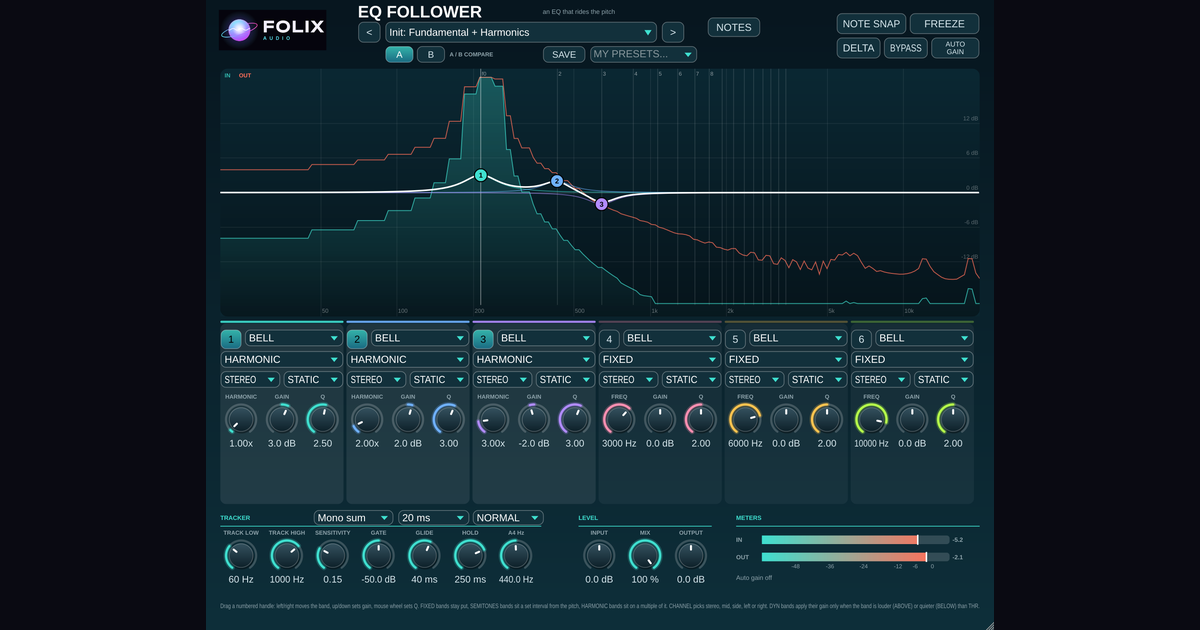
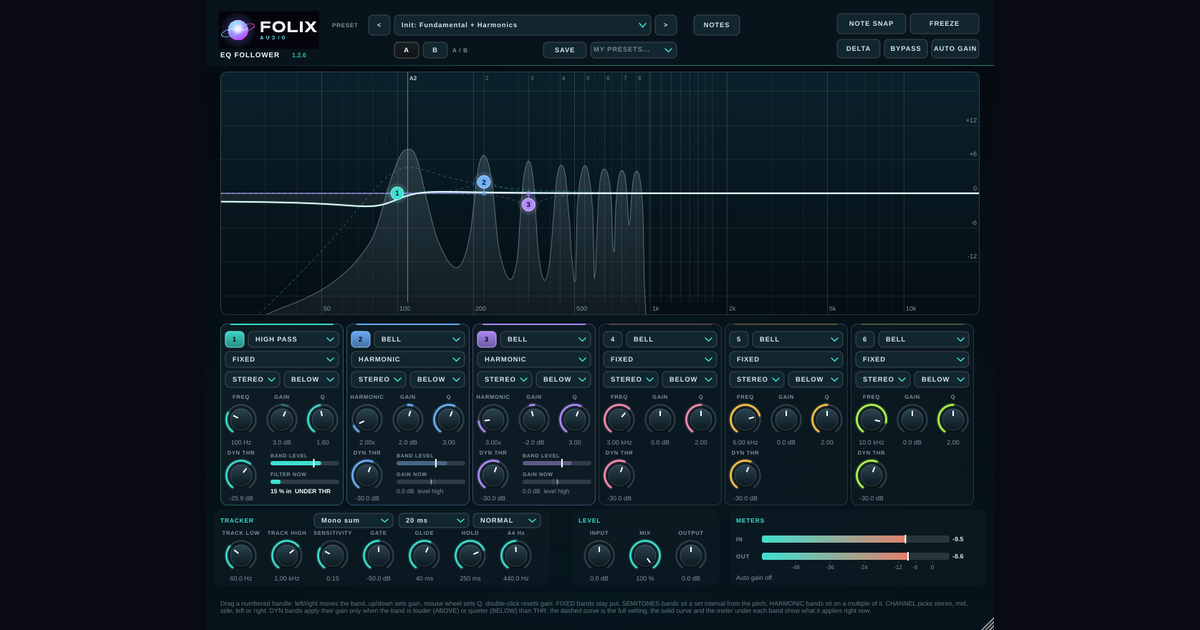
Update EQ Follower screenshots, social links, and Falling Waves teaser
Replace the outdated 1.2.0 EQ Follower UI shots with current 1.2.6
screenshots. Add TikTok, Instagram, X, and YouTube footer and contact
links, and a Coming soon teaser for Falling Waves (no product page,
price, or Buy button). Backwash stays hidden.

diff --git a/contact.html b/contact.html
@@ -56,7 +56,10 @@
     <aside class="info glass reveal">
       <div><h3>Email</h3><p><a href="mailto:folixaudio@gmail.com">folixaudio@gmail.com</a></p></div>
       <div><h3>Support</h3><p>Installation help and answers to common questions are in the <a href="faq.html">FAQ</a> and <a href="install.html">installation guide</a>.</p></div>
-      <div><h3>Follow</h3><p style="color:var(--ink-mute)">Socials are coming soon.</p></div>
+      <div><h3>Follow</h3><div class="socials"><a href="https://www.tiktok.com/@folixaudio" aria-label="TikTok" target="_blank" rel="noopener"><svg viewBox="0 0 24 24"><path d="M19.59 6.69a4.83 4.83 0 01-3.77-4.25V2h-3.45v13.67a2.89 2.89 0 01-5.2 1.74 2.89 2.89 0 012.31-4.51c.28 0 .56.04.81.13V9.01a6.27 6.27 0 00-.81-.05A6.34 6.34 0 003.16 15.3a6.34 6.34 0 0010.86 4.48 6.34 6.34 0 001.87-4.48V8.77a8.16 8.16 0 004.85 1.56V6.88a4.83 4.83 0 01-1.15-.19z"/></svg></a>
+        <a href="https://www.instagram.com/folixaudio/" aria-label="Instagram" target="_blank" rel="noopener"><svg viewBox="0 0 24 24"><path d="M12 7a5 5 0 100 10 5 5 0 000-10zm0 8.2a3.2 3.2 0 110-6.4 3.2 3.2 0 010 6.4zM17.3 5.5a1.2 1.2 0 100 2.4 1.2 1.2 0 000-2.4zM12 2c-2.7 0-3 0-4.1.1C4.3 2.3 2.3 4.3 2.1 7.9 2 9 2 9.3 2 12s0 3 .1 4.1c.2 3.6 2.2 5.6 5.8 5.8 1.1.1 1.4.1 4.1.1s3 0 4.1-.1c3.6-.2 5.6-2.2 5.8-5.8.1-1.1.1-1.4.1-4.1s0-3-.1-4.1c-.2-3.6-2.2-5.6-5.8-5.8C15 2 14.7 2 12 2z"/></svg></a>
+        <a href="https://x.com/Folixaudio" aria-label="X" target="_blank" rel="noopener"><svg viewBox="0 0 24 24"><path d="M17.8 3h3.1l-6.8 7.7 8 10.3h-6.3l-4.9-6.4L5.3 21H2.2l7.2-8.3L1.8 3h6.4l4.4 5.9L17.8 3zm-1.1 16.2h1.7L7.4 4.7H5.6l11.1 14.5z"/></svg></a>
+        <a href="https://www.youtube.com/@folixaudio" aria-label="YouTube" target="_blank" rel="noopener"><svg viewBox="0 0 24 24"><path d="M23 7.2a3 3 0 00-2.1-2.1C19 4.6 12 4.6 12 4.6s-7 0-8.9.5A3 3 0 001 7.2 31 31 0 00.5 12 31 31 0 001 16.8a3 3 0 002.1 2.1c1.9.5 8.9.5 8.9.5s7 0 8.9-.5a3 3 0 002.1-2.1 31 31 0 00.5-4.8 31 31 0 00-.5-4.8zM9.7 15.1V8.9l5.8 3.1-5.8 3.1z"/></svg></a></div></div>
     </aside>
   </div>
 </section>
@@ -85,7 +88,10 @@
         <a class="brand" href="index.html" aria-label="Folix Audio home"><img src="assets/img/mark.svg" alt="Folix Audio" width="40" height="40"><span class="brand-word"><b data-brand="wordmark-top">FOLIX</b><span data-brand="wordmark-sub">AUDIO</span></span></a>
         <p>Instruments and effects for producers and sound designers. VST3 &amp; AU plugins.</p>
         <p>Support: <a href="mailto:folixaudio@gmail.com">folixaudio@gmail.com</a></p>
-        
+        <div class="socials"><a href="https://www.tiktok.com/@folixaudio" aria-label="TikTok" target="_blank" rel="noopener"><svg viewBox="0 0 24 24"><path d="M19.59 6.69a4.83 4.83 0 01-3.77-4.25V2h-3.45v13.67a2.89 2.89 0 01-5.2 1.74 2.89 2.89 0 012.31-4.51c.28 0 .56.04.81.13V9.01a6.27 6.27 0 00-.81-.05A6.34 6.34 0 003.16 15.3a6.34 6.34 0 0010.86 4.48 6.34 6.34 0 001.87-4.48V8.77a8.16 8.16 0 004.85 1.56V6.88a4.83 4.83 0 01-1.15-.19z"/></svg></a>
+        <a href="https://www.instagram.com/folixaudio/" aria-label="Instagram" target="_blank" rel="noopener"><svg viewBox="0 0 24 24"><path d="M12 7a5 5 0 100 10 5 5 0 000-10zm0 8.2a3.2 3.2 0 110-6.4 3.2 3.2 0 010 6.4zM17.3 5.5a1.2 1.2 0 100 2.4 1.2 1.2 0 000-2.4zM12 2c-2.7 0-3 0-4.1.1C4.3 2.3 2.3 4.3 2.1 7.9 2 9 2 9.3 2 12s0 3 .1 4.1c.2 3.6 2.2 5.6 5.8 5.8 1.1.1 1.4.1 4.1.1s3 0 4.1-.1c3.6-.2 5.6-2.2 5.8-5.8.1-1.1.1-1.4.1-4.1s0-3-.1-4.1c-.2-3.6-2.2-5.6-5.8-5.8C15 2 14.7 2 12 2z"/></svg></a>
+        <a href="https://x.com/Folixaudio" aria-label="X" target="_blank" rel="noopener"><svg viewBox="0 0 24 24"><path d="M17.8 3h3.1l-6.8 7.7 8 10.3h-6.3l-4.9-6.4L5.3 21H2.2l7.2-8.3L1.8 3h6.4l4.4 5.9L17.8 3zm-1.1 16.2h1.7L7.4 4.7H5.6l11.1 14.5z"/></svg></a>
+        <a href="https://www.youtube.com/@folixaudio" aria-label="YouTube" target="_blank" rel="noopener"><svg viewBox="0 0 24 24"><path d="M23 7.2a3 3 0 00-2.1-2.1C19 4.6 12 4.6 12 4.6s-7 0-8.9.5A3 3 0 001 7.2 31 31 0 00.5 12 31 31 0 001 16.8a3 3 0 002.1 2.1c1.9.5 8.9.5 8.9.5s7 0 8.9-.5a3 3 0 002.1-2.1 31 31 0 00.5-4.8 31 31 0 00-.5-4.8zM9.7 15.1V8.9l5.8 3.1-5.8 3.1z"/></svg></a></div>
       </div>
       <div><h4>Plugins</h4><ul><li><a href="plugins.html">All plugins</a></li><li><a href="plugin-euphora.html">Folix Euphora</a></li><li><a href="plugin-drop.html">Folix Drop 2</a></li><li><a href="plugin-eq-follower.html">Folix EQ Follower</a></li><li><a href="plugin-delay.html">Folix Delay</a></li><li><a href="plugin-shape-eq.html">Folix Shape EQ</a></li></ul></div>
       <div><h4>Company</h4><ul><li><a href="about.html">About</a></li><li><a href="contact.html">Contact</a></li><li><a href="contact.html#newsletter">Newsletter</a></li></ul></div>

diff --git a/plugins.html b/plugins.html
@@ -45,7 +45,7 @@
         <button class="filter" data-filter="instrument" aria-pressed="false" id="instruments">Instruments</button>
         <button class="filter" data-filter="effect" aria-pressed="false" id="effects">Effects</button>
       </div>
-      <p style="color:var(--ink-mute);font-size:.92rem">5 plugins · all available now</p>
+      <p style="color:var(--ink-mute);font-size:.92rem">5 available now · Falling Waves coming soon</p>
     </div>
     <div class="grid">
       <a class="card glass reveal" href="plugin-euphora.html" data-cat="effect">
@@ -88,6 +88,14 @@
           <p>Two EQ curves, A and B, with a morph you drive by hand, by LFO or by input level.</p>
           <div class="card-foot"><span>$29.99</span><span class="arrow">Details</span></div>
         </div>
+      </a><a class="card glass reveal teaser" href="contact.html#newsletter" data-cat="effect">
+        <div class="card-art" style="--h:195"><div class="orb"></div></div>
+        <div class="card-body">
+          <div class="card-tags"><span class="tag">Effect</span><span class="tag">VST3 · AU</span><span class="tag soon">Coming soon</span></div>
+          <h3>Folix Falling Waves</h3>
+          <p>An audio effect: put it on a track and your sound’s echoes cascade downward, then melt into deep reverb.</p>
+          <div class="card-foot"><span>Coming soon</span><span class="arrow">Get updates</span></div>
+        </div>
       </a>
     </div>
   </div>
@@ -117,7 +125,10 @@
         <a class="brand" href="index.html" aria-label="Folix Audio home"><img src="assets/img/mark.svg" alt="Folix Audio" width="40" height="40"><span class="brand-word"><b data-brand="wordmark-top">FOLIX</b><span data-brand="wordmark-sub">AUDIO</span></span></a>
         <p>Instruments and effects for producers and sound designers. VST3 &amp; AU plugins.</p>
         <p>Support: <a href="mailto:folixaudio@gmail.com">folixaudio@gmail.com</a></p>
-        
+        <div class="socials"><a href="https://www.tiktok.com/@folixaudio" aria-label="TikTok" target="_blank" rel="noopener"><svg viewBox="0 0 24 24"><path d="M19.59 6.69a4.83 4.83 0 01-3.77-4.25V2h-3.45v13.67a2.89 2.89 0 01-5.2 1.74 2.89 2.89 0 012.31-4.51c.28 0 .56.04.81.13V9.01a6.27 6.27 0 00-.81-.05A6.34 6.34 0 003.16 15.3a6.34 6.34 0 0010.86 4.48 6.34 6.34 0 001.87-4.48V8.77a8.16 8.16 0 004.85 1.56V6.88a4.83 4.83 0 01-1.15-.19z"/></svg></a>
+        <a href="https://www.instagram.com/folixaudio/" aria-label="Instagram" target="_blank" rel="noopener"><svg viewBox="0 0 24 24"><path d="M12 7a5 5 0 100 10 5 5 0 000-10zm0 8.2a3.2 3.2 0 110-6.4 3.2 3.2 0 010 6.4zM17.3 5.5a1.2 1.2 0 100 2.4 1.2 1.2 0 000-2.4zM12 2c-2.7 0-3 0-4.1.1C4.3 2.3 2.3 4.3 2.1 7.9 2 9 2 9.3 2 12s0 3 .1 4.1c.2 3.6 2.2 5.6 5.8 5.8 1.1.1 1.4.1 4.1.1s3 0 4.1-.1c3.6-.2 5.6-2.2 5.8-5.8.1-1.1.1-1.4.1-4.1s0-3-.1-4.1c-.2-3.6-2.2-5.6-5.8-5.8C15 2 14.7 2 12 2z"/></svg></a>
+        <a href="https://x.com/Folixaudio" aria-label="X" target="_blank" rel="noopener"><svg viewBox="0 0 24 24"><path d="M17.8 3h3.1l-6.8 7.7 8 10.3h-6.3l-4.9-6.4L5.3 21H2.2l7.2-8.3L1.8 3h6.4l4.4 5.9L17.8 3zm-1.1 16.2h1.7L7.4 4.7H5.6l11.1 14.5z"/></svg></a>
+        <a href="https://www.youtube.com/@folixaudio" aria-label="YouTube" target="_blank" rel="noopener"><svg viewBox="0 0 24 24"><path d="M23 7.2a3 3 0 00-2.1-2.1C19 4.6 12 4.6 12 4.6s-7 0-8.9.5A3 3 0 001 7.2 31 31 0 00.5 12 31 31 0 001 16.8a3 3 0 002.1 2.1c1.9.5 8.9.5 8.9.5s7 0 8.9-.5a3 3 0 002.1-2.1 31 31 0 00.5-4.8 31 31 0 00-.5-4.8zM9.7 15.1V8.9l5.8 3.1-5.8 3.1z"/></svg></a></div>
       </div>
       <div><h4>Plugins</h4><ul><li><a href="plugins.html">All plugins</a></li><li><a href="plugin-euphora.html">Folix Euphora</a></li><li><a href="plugin-drop.html">Folix Drop 2</a></li><li><a href="plugin-eq-follower.html">Folix EQ Follower</a></li><li><a href="plugin-delay.html">Folix Delay</a></li><li><a href="plugin-shape-eq.html">Folix Shape EQ</a></li></ul></div>
       <div><h4>Company</h4><ul><li><a href="about.html">About</a></li><li><a href="contact.html">Contact</a></li><li><a href="contact.html#newsletter">Newsletter</a></li></ul></div>

diff --git a/plugin-eq-follower.html b/plugin-eq-follower.html
@@ -47,7 +47,7 @@
         <p class="demo-note"><a href="eula.html#refunds">14-day refunds</a></p>
       </div>
       <figure class="ui-shot glass">
-        <img src="assets/img/eq-follower-ui.png" alt="Folix EQ Follower plugin interface: spectrum with harmonic-tracking EQ nodes, six band strips, pitch tracker controls and level meters" width="1760" height="1408" loading="eager" decoding="async">
+        <img src="assets/img/eq-follower-ui.png" alt="Folix EQ Follower plugin interface: spectrum with harmonic-tracking EQ nodes, six band strips, pitch tracker controls and level meters" width="1100" height="880" loading="eager" decoding="async">
         <figcaption>Actual plugin interface</figcaption>
       </figure>
     </div>
@@ -73,7 +73,7 @@
 
 <section class="section" style="padding-top:10px">
   <div class="container"><figure class="ui-shot glass reveal" style="max-width:1080px;margin:0 auto">
-    <img src="assets/img/eq-follower-detail.png" alt="Folix EQ Follower EQ graph close-up with bands following the fundamental and harmonics" width="1696" height="554" loading="lazy" decoding="async">
+    <img src="assets/img/eq-follower-detail.png" alt="Folix EQ Follower EQ graph close-up with bands following the fundamental and harmonics" width="1060" height="348" loading="lazy" decoding="async">
     <figcaption>Bands lock to the fundamental and its harmonics</figcaption>
   </figure></div>
 </section>
@@ -108,7 +108,10 @@
         <a class="brand" href="index.html" aria-label="Folix Audio home"><img src="assets/img/mark.svg" alt="Folix Audio" width="40" height="40"><span class="brand-word"><b data-brand="wordmark-top">FOLIX</b><span data-brand="wordmark-sub">AUDIO</span></span></a>
         <p>Instruments and effects for producers and sound designers. VST3 &amp; AU plugins.</p>
         <p>Support: <a href="mailto:folixaudio@gmail.com">folixaudio@gmail.com</a></p>
-        
+        <div class="socials"><a href="https://www.tiktok.com/@folixaudio" aria-label="TikTok" target="_blank" rel="noopener"><svg viewBox="0 0 24 24"><path d="M19.59 6.69a4.83 4.83 0 01-3.77-4.25V2h-3.45v13.67a2.89 2.89 0 01-5.2 1.74 2.89 2.89 0 012.31-4.51c.28 0 .56.04.81.13V9.01a6.27 6.27 0 00-.81-.05A6.34 6.34 0 003.16 15.3a6.34 6.34 0 0010.86 4.48 6.34 6.34 0 001.87-4.48V8.77a8.16 8.16 0 004.85 1.56V6.88a4.83 4.83 0 01-1.15-.19z"/></svg></a>
+        <a href="https://www.instagram.com/folixaudio/" aria-label="Instagram" target="_blank" rel="noopener"><svg viewBox="0 0 24 24"><path d="M12 7a5 5 0 100 10 5 5 0 000-10zm0 8.2a3.2 3.2 0 110-6.4 3.2 3.2 0 010 6.4zM17.3 5.5a1.2 1.2 0 100 2.4 1.2 1.2 0 000-2.4zM12 2c-2.7 0-3 0-4.1.1C4.3 2.3 2.3 4.3 2.1 7.9 2 9 2 9.3 2 12s0 3 .1 4.1c.2 3.6 2.2 5.6 5.8 5.8 1.1.1 1.4.1 4.1.1s3 0 4.1-.1c3.6-.2 5.6-2.2 5.8-5.8.1-1.1.1-1.4.1-4.1s0-3-.1-4.1c-.2-3.6-2.2-5.6-5.8-5.8C15 2 14.7 2 12 2z"/></svg></a>
+        <a href="https://x.com/Folixaudio" aria-label="X" target="_blank" rel="noopener"><svg viewBox="0 0 24 24"><path d="M17.8 3h3.1l-6.8 7.7 8 10.3h-6.3l-4.9-6.4L5.3 21H2.2l7.2-8.3L1.8 3h6.4l4.4 5.9L17.8 3zm-1.1 16.2h1.7L7.4 4.7H5.6l11.1 14.5z"/></svg></a>
+        <a href="https://www.youtube.com/@folixaudio" aria-label="YouTube" target="_blank" rel="noopener"><svg viewBox="0 0 24 24"><path d="M23 7.2a3 3 0 00-2.1-2.1C19 4.6 12 4.6 12 4.6s-7 0-8.9.5A3 3 0 001 7.2 31 31 0 00.5 12 31 31 0 001 16.8a3 3 0 002.1 2.1c1.9.5 8.9.5 8.9.5s7 0 8.9-.5a3 3 0 002.1-2.1 31 31 0 00.5-4.8 31 31 0 00-.5-4.8zM9.7 15.1V8.9l5.8 3.1-5.8 3.1z"/></svg></a></div>
       </div>
       <div><h4>Plugins</h4><ul><li><a href="plugins.html">All plugins</a></li><li><a href="plugin-euphora.html">Folix Euphora</a></li><li><a href="plugin-drop.html">Folix Drop 2</a></li><li><a href="plugin-eq-follower.html">Folix EQ Follower</a></li><li><a href="plugin-delay.html">Folix Delay</a></li><li><a href="plugin-shape-eq.html">Folix Shape EQ</a></li></ul></div>
       <div><h4>Company</h4><ul><li><a href="about.html">About</a></li><li><a href="contact.html">Contact</a></li><li><a href="contact.html#newsletter">Newsletter</a></li></ul></div>

diff --git a/index.html b/index.html
@@ -99,6 +99,15 @@
         </div>
       </a>
     </div>
+    <div class="wave-panel glass reveal" style="margin-top:44px">
+      <div>
+        <span class="eyebrow">Coming soon</span>
+        <h2 style="margin-top:14px">Folix Falling Waves</h2>
+        <p>An audio effect: put it on a track and your sound’s echoes cascade downward, then melt into deep reverb.</p>
+        <a class="btn btn-ghost" href="contact.html#newsletter" style="margin-top:8px">Get updates</a>
+      </div>
+      <div class="wave" data-wave="48" aria-hidden="true"></div>
+    </div>
     <div style="text-align:center;margin-top:44px" class="reveal"><a class="btn btn-ghost" href="plugins.html">See all plugins</a></div>
   </div>
 </section>
@@ -176,7 +185,10 @@
         <a class="brand" href="index.html" aria-label="Folix Audio home"><img src="assets/img/mark.svg" alt="Folix Audio" width="40" height="40"><span class="brand-word"><b data-brand="wordmark-top">FOLIX</b><span data-brand="wordmark-sub">AUDIO</span></span></a>
         <p>Instruments and effects for producers and sound designers. VST3 &amp; AU plugins.</p>
         <p>Support: <a href="mailto:folixaudio@gmail.com">folixaudio@gmail.com</a></p>
-        
+        <div class="socials"><a href="https://www.tiktok.com/@folixaudio" aria-label="TikTok" target="_blank" rel="noopener"><svg viewBox="0 0 24 24"><path d="M19.59 6.69a4.83 4.83 0 01-3.77-4.25V2h-3.45v13.67a2.89 2.89 0 01-5.2 1.74 2.89 2.89 0 012.31-4.51c.28 0 .56.04.81.13V9.01a6.27 6.27 0 00-.81-.05A6.34 6.34 0 003.16 15.3a6.34 6.34 0 0010.86 4.48 6.34 6.34 0 001.87-4.48V8.77a8.16 8.16 0 004.85 1.56V6.88a4.83 4.83 0 01-1.15-.19z"/></svg></a>
+        <a href="https://www.instagram.com/folixaudio/" aria-label="Instagram" target="_blank" rel="noopener"><svg viewBox="0 0 24 24"><path d="M12 7a5 5 0 100 10 5 5 0 000-10zm0 8.2a3.2 3.2 0 110-6.4 3.2 3.2 0 010 6.4zM17.3 5.5a1.2 1.2 0 100 2.4 1.2 1.2 0 000-2.4zM12 2c-2.7 0-3 0-4.1.1C4.3 2.3 2.3 4.3 2.1 7.9 2 9 2 9.3 2 12s0 3 .1 4.1c.2 3.6 2.2 5.6 5.8 5.8 1.1.1 1.4.1 4.1.1s3 0 4.1-.1c3.6-.2 5.6-2.2 5.8-5.8.1-1.1.1-1.4.1-4.1s0-3-.1-4.1c-.2-3.6-2.2-5.6-5.8-5.8C15 2 14.7 2 12 2z"/></svg></a>
+        <a href="https://x.com/Folixaudio" aria-label="X" target="_blank" rel="noopener"><svg viewBox="0 0 24 24"><path d="M17.8 3h3.1l-6.8 7.7 8 10.3h-6.3l-4.9-6.4L5.3 21H2.2l7.2-8.3L1.8 3h6.4l4.4 5.9L17.8 3zm-1.1 16.2h1.7L7.4 4.7H5.6l11.1 14.5z"/></svg></a>
+        <a href="https://www.youtube.com/@folixaudio" aria-label="YouTube" target="_blank" rel="noopener"><svg viewBox="0 0 24 24"><path d="M23 7.2a3 3 0 00-2.1-2.1C19 4.6 12 4.6 12 4.6s-7 0-8.9.5A3 3 0 001 7.2 31 31 0 00.5 12 31 31 0 001 16.8a3 3 0 002.1 2.1c1.9.5 8.9.5 8.9.5s7 0 8.9-.5a3 3 0 002.1-2.1 31 31 0 00.5-4.8 31 31 0 00-.5-4.8zM9.7 15.1V8.9l5.8 3.1-5.8 3.1z"/></svg></a></div>
       </div>
       <div><h4>Plugins</h4><ul><li><a href="plugins.html">All plugins</a></li><li><a href="plugin-euphora.html">Folix Euphora</a></li><li><a href="plugin-drop.html">Folix Drop 2</a></li><li><a href="plugin-eq-follower.html">Folix EQ Follower</a></li><li><a href="plugin-delay.html">Folix Delay</a></li><li><a href="plugin-shape-eq.html">Folix Shape EQ</a></li></ul></div>
       <div><h4>Company</h4><ul><li><a href="about.html">About</a></li><li><a href="contact.html">Contact</a></li><li><a href="contact.html#newsletter">Newsletter</a></li></ul></div>

diff --git a/about.html b/about.html
@@ -100,7 +100,10 @@
         <a class="brand" href="index.html" aria-label="Folix Audio home"><img src="assets/img/mark.svg" alt="Folix Audio" width="40" height="40"><span class="brand-word"><b data-brand="wordmark-top">FOLIX</b><span data-brand="wordmark-sub">AUDIO</span></span></a>
         <p>Instruments and effects for producers and sound designers. VST3 &amp; AU plugins.</p>
         <p>Support: <a href="mailto:folixaudio@gmail.com">folixaudio@gmail.com</a></p>
-        
+        <div class="socials"><a href="https://www.tiktok.com/@folixaudio" aria-label="TikTok" target="_blank" rel="noopener"><svg viewBox="0 0 24 24"><path d="M19.59 6.69a4.83 4.83 0 01-3.77-4.25V2h-3.45v13.67a2.89 2.89 0 01-5.2 1.74 2.89 2.89 0 012.31-4.51c.28 0 .56.04.81.13V9.01a6.27 6.27 0 00-.81-.05A6.34 6.34 0 003.16 15.3a6.34 6.34 0 0010.86 4.48 6.34 6.34 0 001.87-4.48V8.77a8.16 8.16 0 004.85 1.56V6.88a4.83 4.83 0 01-1.15-.19z"/></svg></a>
+        <a href="https://www.instagram.com/folixaudio/" aria-label="Instagram" target="_blank" rel="noopener"><svg viewBox="0 0 24 24"><path d="M12 7a5 5 0 100 10 5 5 0 000-10zm0 8.2a3.2 3.2 0 110-6.4 3.2 3.2 0 010 6.4zM17.3 5.5a1.2 1.2 0 100 2.4 1.2 1.2 0 000-2.4zM12 2c-2.7 0-3 0-4.1.1C4.3 2.3 2.3 4.3 2.1 7.9 2 9 2 9.3 2 12s0 3 .1 4.1c.2 3.6 2.2 5.6 5.8 5.8 1.1.1 1.4.1 4.1.1s3 0 4.1-.1c3.6-.2 5.6-2.2 5.8-5.8.1-1.1.1-1.4.1-4.1s0-3-.1-4.1c-.2-3.6-2.2-5.6-5.8-5.8C15 2 14.7 2 12 2z"/></svg></a>
+        <a href="https://x.com/Folixaudio" aria-label="X" target="_blank" rel="noopener"><svg viewBox="0 0 24 24"><path d="M17.8 3h3.1l-6.8 7.7 8 10.3h-6.3l-4.9-6.4L5.3 21H2.2l7.2-8.3L1.8 3h6.4l4.4 5.9L17.8 3zm-1.1 16.2h1.7L7.4 4.7H5.6l11.1 14.5z"/></svg></a>
+        <a href="https://www.youtube.com/@folixaudio" aria-label="YouTube" target="_blank" rel="noopener"><svg viewBox="0 0 24 24"><path d="M23 7.2a3 3 0 00-2.1-2.1C19 4.6 12 4.6 12 4.6s-7 0-8.9.5A3 3 0 001 7.2 31 31 0 00.5 12 31 31 0 001 16.8a3 3 0 002.1 2.1c1.9.5 8.9.5 8.9.5s7 0 8.9-.5a3 3 0 002.1-2.1 31 31 0 00.5-4.8 31 31 0 00-.5-4.8zM9.7 15.1V8.9l5.8 3.1-5.8 3.1z"/></svg></a></div>
       </div>
       <div><h4>Plugins</h4><ul><li><a href="plugins.html">All plugins</a></li><li><a href="plugin-euphora.html">Folix Euphora</a></li><li><a href="plugin-drop.html">Folix Drop 2</a></li><li><a href="plugin-eq-follower.html">Folix EQ Follower</a></li><li><a href="plugin-delay.html">Folix Delay</a></li><li><a href="plugin-shape-eq.html">Folix Shape EQ</a></li></ul></div>
       <div><h4>Company</h4><ul><li><a href="about.html">About</a></li><li><a href="contact.html">Contact</a></li><li><a href="contact.html#newsletter">Newsletter</a></li></ul></div>

diff --git a/plugin-delay.html b/plugin-delay.html
@@ -108,7 +108,10 @@
         <a class="brand" href="index.html" aria-label="Folix Audio home"><img src="assets/img/mark.svg" alt="Folix Audio" width="40" height="40"><span class="brand-word"><b data-brand="wordmark-top">FOLIX</b><span data-brand="wordmark-sub">AUDIO</span></span></a>
         <p>Instruments and effects for producers and sound designers. VST3 &amp; AU plugins.</p>
         <p>Support: <a href="mailto:folixaudio@gmail.com">folixaudio@gmail.com</a></p>
-        
+        <div class="socials"><a href="https://www.tiktok.com/@folixaudio" aria-label="TikTok" target="_blank" rel="noopener"><svg viewBox="0 0 24 24"><path d="M19.59 6.69a4.83 4.83 0 01-3.77-4.25V2h-3.45v13.67a2.89 2.89 0 01-5.2 1.74 2.89 2.89 0 012.31-4.51c.28 0 .56.04.81.13V9.01a6.27 6.27 0 00-.81-.05A6.34 6.34 0 003.16 15.3a6.34 6.34 0 0010.86 4.48 6.34 6.34 0 001.87-4.48V8.77a8.16 8.16 0 004.85 1.56V6.88a4.83 4.83 0 01-1.15-.19z"/></svg></a>
+        <a href="https://www.instagram.com/folixaudio/" aria-label="Instagram" target="_blank" rel="noopener"><svg viewBox="0 0 24 24"><path d="M12 7a5 5 0 100 10 5 5 0 000-10zm0 8.2a3.2 3.2 0 110-6.4 3.2 3.2 0 010 6.4zM17.3 5.5a1.2 1.2 0 100 2.4 1.2 1.2 0 000-2.4zM12 2c-2.7 0-3 0-4.1.1C4.3 2.3 2.3 4.3 2.1 7.9 2 9 2 9.3 2 12s0 3 .1 4.1c.2 3.6 2.2 5.6 5.8 5.8 1.1.1 1.4.1 4.1.1s3 0 4.1-.1c3.6-.2 5.6-2.2 5.8-5.8.1-1.1.1-1.4.1-4.1s0-3-.1-4.1c-.2-3.6-2.2-5.6-5.8-5.8C15 2 14.7 2 12 2z"/></svg></a>
+        <a href="https://x.com/Folixaudio" aria-label="X" target="_blank" rel="noopener"><svg viewBox="0 0 24 24"><path d="M17.8 3h3.1l-6.8 7.7 8 10.3h-6.3l-4.9-6.4L5.3 21H2.2l7.2-8.3L1.8 3h6.4l4.4 5.9L17.8 3zm-1.1 16.2h1.7L7.4 4.7H5.6l11.1 14.5z"/></svg></a>
+        <a href="https://www.youtube.com/@folixaudio" aria-label="YouTube" target="_blank" rel="noopener"><svg viewBox="0 0 24 24"><path d="M23 7.2a3 3 0 00-2.1-2.1C19 4.6 12 4.6 12 4.6s-7 0-8.9.5A3 3 0 001 7.2 31 31 0 00.5 12 31 31 0 001 16.8a3 3 0 002.1 2.1c1.9.5 8.9.5 8.9.5s7 0 8.9-.5a3 3 0 002.1-2.1 31 31 0 00.5-4.8 31 31 0 00-.5-4.8zM9.7 15.1V8.9l5.8 3.1-5.8 3.1z"/></svg></a></div>
       </div>
       <div><h4>Plugins</h4><ul><li><a href="plugins.html">All plugins</a></li><li><a href="plugin-euphora.html">Folix Euphora</a></li><li><a href="plugin-drop.html">Folix Drop 2</a></li><li><a href="plugin-eq-follower.html">Folix EQ Follower</a></li><li><a href="plugin-delay.html">Folix Delay</a></li><li><a href="plugin-shape-eq.html">Folix Shape EQ</a></li></ul></div>
       <div><h4>Company</h4><ul><li><a href="about.html">About</a></li><li><a href="contact.html">Contact</a></li><li><a href="contact.html#newsletter">Newsletter</a></li></ul></div>

diff --git a/plugin-drop.html b/plugin-drop.html
@@ -111,7 +111,10 @@
         <a class="brand" href="index.html" aria-label="Folix Audio home"><img src="assets/img/mark.svg" alt="Folix Audio" width="40" height="40"><span class="brand-word"><b data-brand="wordmark-top">FOLIX</b><span data-brand="wordmark-sub">AUDIO</span></span></a>
         <p>Instruments and effects for producers and sound designers. VST3 &amp; AU plugins.</p>
         <p>Support: <a href="mailto:folixaudio@gmail.com">folixaudio@gmail.com</a></p>
-        
+        <div class="socials"><a href="https://www.tiktok.com/@folixaudio" aria-label="TikTok" target="_blank" rel="noopener"><svg viewBox="0 0 24 24"><path d="M19.59 6.69a4.83 4.83 0 01-3.77-4.25V2h-3.45v13.67a2.89 2.89 0 01-5.2 1.74 2.89 2.89 0 012.31-4.51c.28 0 .56.04.81.13V9.01a6.27 6.27 0 00-.81-.05A6.34 6.34 0 003.16 15.3a6.34 6.34 0 0010.86 4.48 6.34 6.34 0 001.87-4.48V8.77a8.16 8.16 0 004.85 1.56V6.88a4.83 4.83 0 01-1.15-.19z"/></svg></a>
+        <a href="https://www.instagram.com/folixaudio/" aria-label="Instagram" target="_blank" rel="noopener"><svg viewBox="0 0 24 24"><path d="M12 7a5 5 0 100 10 5 5 0 000-10zm0 8.2a3.2 3.2 0 110-6.4 3.2 3.2 0 010 6.4zM17.3 5.5a1.2 1.2 0 100 2.4 1.2 1.2 0 000-2.4zM12 2c-2.7 0-3 0-4.1.1C4.3 2.3 2.3 4.3 2.1 7.9 2 9 2 9.3 2 12s0 3 .1 4.1c.2 3.6 2.2 5.6 5.8 5.8 1.1.1 1.4.1 4.1.1s3 0 4.1-.1c3.6-.2 5.6-2.2 5.8-5.8.1-1.1.1-1.4.1-4.1s0-3-.1-4.1c-.2-3.6-2.2-5.6-5.8-5.8C15 2 14.7 2 12 2z"/></svg></a>
+        <a href="https://x.com/Folixaudio" aria-label="X" target="_blank" rel="noopener"><svg viewBox="0 0 24 24"><path d="M17.8 3h3.1l-6.8 7.7 8 10.3h-6.3l-4.9-6.4L5.3 21H2.2l7.2-8.3L1.8 3h6.4l4.4 5.9L17.8 3zm-1.1 16.2h1.7L7.4 4.7H5.6l11.1 14.5z"/></svg></a>
+        <a href="https://www.youtube.com/@folixaudio" aria-label="YouTube" target="_blank" rel="noopener"><svg viewBox="0 0 24 24"><path d="M23 7.2a3 3 0 00-2.1-2.1C19 4.6 12 4.6 12 4.6s-7 0-8.9.5A3 3 0 001 7.2 31 31 0 00.5 12 31 31 0 001 16.8a3 3 0 002.1 2.1c1.9.5 8.9.5 8.9.5s7 0 8.9-.5a3 3 0 002.1-2.1 31 31 0 00.5-4.8 31 31 0 00-.5-4.8zM9.7 15.1V8.9l5.8 3.1-5.8 3.1z"/></svg></a></div>
       </div>
       <div><h4>Plugins</h4><ul><li><a href="plugins.html">All plugins</a></li><li><a href="plugin-euphora.html">Folix Euphora</a></li><li><a href="plugin-drop.html">Folix Drop 2</a></li><li><a href="plugin-eq-follower.html">Folix EQ Follower</a></li><li><a href="plugin-delay.html">Folix Delay</a></li><li><a href="plugin-shape-eq.html">Folix Shape EQ</a></li></ul></div>
       <div><h4>Company</h4><ul><li><a href="about.html">About</a></li><li><a href="contact.html">Contact</a></li><li><a href="contact.html#newsletter">Newsletter</a></li></ul></div>

diff --git a/plugin-euphora.html b/plugin-euphora.html
@@ -101,7 +101,10 @@
         <a class="brand" href="index.html" aria-label="Folix Audio home"><img src="assets/img/mark.svg" alt="Folix Audio" width="40" height="40"><span class="brand-word"><b data-brand="wordmark-top">FOLIX</b><span data-brand="wordmark-sub">AUDIO</span></span></a>
         <p>Instruments and effects for producers and sound designers. VST3 &amp; AU plugins.</p>
         <p>Support: <a href="mailto:folixaudio@gmail.com">folixaudio@gmail.com</a></p>
-        
+        <div class="socials"><a href="https://www.tiktok.com/@folixaudio" aria-label="TikTok" target="_blank" rel="noopener"><svg viewBox="0 0 24 24"><path d="M19.59 6.69a4.83 4.83 0 01-3.77-4.25V2h-3.45v13.67a2.89 2.89 0 01-5.2 1.74 2.89 2.89 0 012.31-4.51c.28 0 .56.04.81.13V9.01a6.27 6.27 0 00-.81-.05A6.34 6.34 0 003.16 15.3a6.34 6.34 0 0010.86 4.48 6.34 6.34 0 001.87-4.48V8.77a8.16 8.16 0 004.85 1.56V6.88a4.83 4.83 0 01-1.15-.19z"/></svg></a>
+        <a href="https://www.instagram.com/folixaudio/" aria-label="Instagram" target="_blank" rel="noopener"><svg viewBox="0 0 24 24"><path d="M12 7a5 5 0 100 10 5 5 0 000-10zm0 8.2a3.2 3.2 0 110-6.4 3.2 3.2 0 010 6.4zM17.3 5.5a1.2 1.2 0 100 2.4 1.2 1.2 0 000-2.4zM12 2c-2.7 0-3 0-4.1.1C4.3 2.3 2.3 4.3 2.1 7.9 2 9 2 9.3 2 12s0 3 .1 4.1c.2 3.6 2.2 5.6 5.8 5.8 1.1.1 1.4.1 4.1.1s3 0 4.1-.1c3.6-.2 5.6-2.2 5.8-5.8.1-1.1.1-1.4.1-4.1s0-3-.1-4.1c-.2-3.6-2.2-5.6-5.8-5.8C15 2 14.7 2 12 2z"/></svg></a>
+        <a href="https://x.com/Folixaudio" aria-label="X" target="_blank" rel="noopener"><svg viewBox="0 0 24 24"><path d="M17.8 3h3.1l-6.8 7.7 8 10.3h-6.3l-4.9-6.4L5.3 21H2.2l7.2-8.3L1.8 3h6.4l4.4 5.9L17.8 3zm-1.1 16.2h1.7L7.4 4.7H5.6l11.1 14.5z"/></svg></a>
+        <a href="https://www.youtube.com/@folixaudio" aria-label="YouTube" target="_blank" rel="noopener"><svg viewBox="0 0 24 24"><path d="M23 7.2a3 3 0 00-2.1-2.1C19 4.6 12 4.6 12 4.6s-7 0-8.9.5A3 3 0 001 7.2 31 31 0 00.5 12 31 31 0 001 16.8a3 3 0 002.1 2.1c1.9.5 8.9.5 8.9.5s7 0 8.9-.5a3 3 0 002.1-2.1 31 31 0 00.5-4.8 31 31 0 00-.5-4.8zM9.7 15.1V8.9l5.8 3.1-5.8 3.1z"/></svg></a></div>
       </div>
       <div><h4>Plugins</h4><ul><li><a href="plugins.html">All plugins</a></li><li><a href="plugin-euphora.html">Folix Euphora</a></li><li><a href="plugin-drop.html">Folix Drop 2</a></li><li><a href="plugin-eq-follower.html">Folix EQ Follower</a></li><li><a href="plugin-delay.html">Folix Delay</a></li><li><a href="plugin-shape-eq.html">Folix Shape EQ</a></li></ul></div>
       <div><h4>Company</h4><ul><li><a href="about.html">About</a></li><li><a href="contact.html">Contact</a></li><li><a href="contact.html#newsletter">Newsletter</a></li></ul></div>

diff --git a/plugin-shape-eq.html b/plugin-shape-eq.html
@@ -108,7 +108,10 @@
         <a class="brand" href="index.html" aria-label="Folix Audio home"><img src="assets/img/mark.svg" alt="Folix Audio" width="40" height="40"><span class="brand-word"><b data-brand="wordmark-top">FOLIX</b><span data-brand="wordmark-sub">AUDIO</span></span></a>
         <p>Instruments and effects for producers and sound designers. VST3 &amp; AU plugins.</p>
         <p>Support: <a href="mailto:folixaudio@gmail.com">folixaudio@gmail.com</a></p>
-        
+        <div class="socials"><a href="https://www.tiktok.com/@folixaudio" aria-label="TikTok" target="_blank" rel="noopener"><svg viewBox="0 0 24 24"><path d="M19.59 6.69a4.83 4.83 0 01-3.77-4.25V2h-3.45v13.67a2.89 2.89 0 01-5.2 1.74 2.89 2.89 0 012.31-4.51c.28 0 .56.04.81.13V9.01a6.27 6.27 0 00-.81-.05A6.34 6.34 0 003.16 15.3a6.34 6.34 0 0010.86 4.48 6.34 6.34 0 001.87-4.48V8.77a8.16 8.16 0 004.85 1.56V6.88a4.83 4.83 0 01-1.15-.19z"/></svg></a>
+        <a href="https://www.instagram.com/folixaudio/" aria-label="Instagram" target="_blank" rel="noopener"><svg viewBox="0 0 24 24"><path d="M12 7a5 5 0 100 10 5 5 0 000-10zm0 8.2a3.2 3.2 0 110-6.4 3.2 3.2 0 010 6.4zM17.3 5.5a1.2 1.2 0 100 2.4 1.2 1.2 0 000-2.4zM12 2c-2.7 0-3 0-4.1.1C4.3 2.3 2.3 4.3 2.1 7.9 2 9 2 9.3 2 12s0 3 .1 4.1c.2 3.6 2.2 5.6 5.8 5.8 1.1.1 1.4.1 4.1.1s3 0 4.1-.1c3.6-.2 5.6-2.2 5.8-5.8.1-1.1.1-1.4.1-4.1s0-3-.1-4.1c-.2-3.6-2.2-5.6-5.8-5.8C15 2 14.7 2 12 2z"/></svg></a>
+        <a href="https://x.com/Folixaudio" aria-label="X" target="_blank" rel="noopener"><svg viewBox="0 0 24 24"><path d="M17.8 3h3.1l-6.8 7.7 8 10.3h-6.3l-4.9-6.4L5.3 21H2.2l7.2-8.3L1.8 3h6.4l4.4 5.9L17.8 3zm-1.1 16.2h1.7L7.4 4.7H5.6l11.1 14.5z"/></svg></a>
+        <a href="https://www.youtube.com/@folixaudio" aria-label="YouTube" target="_blank" rel="noopener"><svg viewBox="0 0 24 24"><path d="M23 7.2a3 3 0 00-2.1-2.1C19 4.6 12 4.6 12 4.6s-7 0-8.9.5A3 3 0 001 7.2 31 31 0 00.5 12 31 31 0 001 16.8a3 3 0 002.1 2.1c1.9.5 8.9.5 8.9.5s7 0 8.9-.5a3 3 0 002.1-2.1 31 31 0 00.5-4.8 31 31 0 00-.5-4.8zM9.7 15.1V8.9l5.8 3.1-5.8 3.1z"/></svg></a></div>
       </div>
       <div><h4>Plugins</h4><ul><li><a href="plugins.html">All plugins</a></li><li><a href="plugin-euphora.html">Folix Euphora</a></li><li><a href="plugin-drop.html">Folix Drop 2</a></li><li><a href="plugin-eq-follower.html">Folix EQ Follower</a></li><li><a href="plugin-delay.html">Folix Delay</a></li><li><a href="plugin-shape-eq.html">Folix Shape EQ</a></li></ul></div>
       <div><h4>Company</h4><ul><li><a href="about.html">About</a></li><li><a href="contact.html">Contact</a></li><li><a href="contact.html#newsletter">Newsletter</a></li></ul></div>

diff --git a/eula.html b/eula.html
@@ -48,7 +48,10 @@
         <a class="brand" href="index.html" aria-label="Folix Audio home"><img src="assets/img/mark.svg" alt="Folix Audio" width="40" height="40"><span class="brand-word"><b data-brand="wordmark-top">FOLIX</b><span data-brand="wordmark-sub">AUDIO</span></span></a>
         <p>Instruments and effects for producers and sound designers. VST3 &amp; AU plugins.</p>
         <p>Support: <a href="mailto:folixaudio@gmail.com">folixaudio@gmail.com</a></p>
-        
+        <div class="socials"><a href="https://www.tiktok.com/@folixaudio" aria-label="TikTok" target="_blank" rel="noopener"><svg viewBox="0 0 24 24"><path d="M19.59 6.69a4.83 4.83 0 01-3.77-4.25V2h-3.45v13.67a2.89 2.89 0 01-5.2 1.74 2.89 2.89 0 012.31-4.51c.28 0 .56.04.81.13V9.01a6.27 6.27 0 00-.81-.05A6.34 6.34 0 003.16 15.3a6.34 6.34 0 0010.86 4.48 6.34 6.34 0 001.87-4.48V8.77a8.16 8.16 0 004.85 1.56V6.88a4.83 4.83 0 01-1.15-.19z"/></svg></a>
+        <a href="https://www.instagram.com/folixaudio/" aria-label="Instagram" target="_blank" rel="noopener"><svg viewBox="0 0 24 24"><path d="M12 7a5 5 0 100 10 5 5 0 000-10zm0 8.2a3.2 3.2 0 110-6.4 3.2 3.2 0 010 6.4zM17.3 5.5a1.2 1.2 0 100 2.4 1.2 1.2 0 000-2.4zM12 2c-2.7 0-3 0-4.1.1C4.3 2.3 2.3 4.3 2.1 7.9 2 9 2 9.3 2 12s0 3 .1 4.1c.2 3.6 2.2 5.6 5.8 5.8 1.1.1 1.4.1 4.1.1s3 0 4.1-.1c3.6-.2 5.6-2.2 5.8-5.8.1-1.1.1-1.4.1-4.1s0-3-.1-4.1c-.2-3.6-2.2-5.6-5.8-5.8C15 2 14.7 2 12 2z"/></svg></a>
+        <a href="https://x.com/Folixaudio" aria-label="X" target="_blank" rel="noopener"><svg viewBox="0 0 24 24"><path d="M17.8 3h3.1l-6.8 7.7 8 10.3h-6.3l-4.9-6.4L5.3 21H2.2l7.2-8.3L1.8 3h6.4l4.4 5.9L17.8 3zm-1.1 16.2h1.7L7.4 4.7H5.6l11.1 14.5z"/></svg></a>
+        <a href="https://www.youtube.com/@folixaudio" aria-label="YouTube" target="_blank" rel="noopener"><svg viewBox="0 0 24 24"><path d="M23 7.2a3 3 0 00-2.1-2.1C19 4.6 12 4.6 12 4.6s-7 0-8.9.5A3 3 0 001 7.2 31 31 0 00.5 12 31 31 0 001 16.8a3 3 0 002.1 2.1c1.9.5 8.9.5 8.9.5s7 0 8.9-.5a3 3 0 002.1-2.1 31 31 0 00.5-4.8 31 31 0 00-.5-4.8zM9.7 15.1V8.9l5.8 3.1-5.8 3.1z"/></svg></a></div>
       </div>
       <div><h4>Plugins</h4><ul><li><a href="plugins.html">All plugins</a></li><li><a href="plugin-euphora.html">Folix Euphora</a></li><li><a href="plugin-drop.html">Folix Drop 2</a></li><li><a href="plugin-eq-follower.html">Folix EQ Follower</a></li><li><a href="plugin-delay.html">Folix Delay</a></li><li><a href="plugin-shape-eq.html">Folix Shape EQ</a></li></ul></div>
       <div><h4>Company</h4><ul><li><a href="about.html">About</a></li><li><a href="contact.html">Contact</a></li><li><a href="contact.html#newsletter">Newsletter</a></li></ul></div>

diff --git a/faq.html b/faq.html
@@ -48,7 +48,10 @@
         <a class="brand" href="index.html" aria-label="Folix Audio home"><img src="assets/img/mark.svg" alt="Folix Audio" width="40" height="40"><span class="brand-word"><b data-brand="wordmark-top">FOLIX</b><span data-brand="wordmark-sub">AUDIO</span></span></a>
         <p>Instruments and effects for producers and sound designers. VST3 &amp; AU plugins.</p>
         <p>Support: <a href="mailto:folixaudio@gmail.com">folixaudio@gmail.com</a></p>
-        
+        <div class="socials"><a href="https://www.tiktok.com/@folixaudio" aria-label="TikTok" target="_blank" rel="noopener"><svg viewBox="0 0 24 24"><path d="M19.59 6.69a4.83 4.83 0 01-3.77-4.25V2h-3.45v13.67a2.89 2.89 0 01-5.2 1.74 2.89 2.89 0 012.31-4.51c.28 0 .56.04.81.13V9.01a6.27 6.27 0 00-.81-.05A6.34 6.34 0 003.16 15.3a6.34 6.34 0 0010.86 4.48 6.34 6.34 0 001.87-4.48V8.77a8.16 8.16 0 004.85 1.56V6.88a4.83 4.83 0 01-1.15-.19z"/></svg></a>
+        <a href="https://www.instagram.com/folixaudio/" aria-label="Instagram" target="_blank" rel="noopener"><svg viewBox="0 0 24 24"><path d="M12 7a5 5 0 100 10 5 5 0 000-10zm0 8.2a3.2 3.2 0 110-6.4 3.2 3.2 0 010 6.4zM17.3 5.5a1.2 1.2 0 100 2.4 1.2 1.2 0 000-2.4zM12 2c-2.7 0-3 0-4.1.1C4.3 2.3 2.3 4.3 2.1 7.9 2 9 2 9.3 2 12s0 3 .1 4.1c.2 3.6 2.2 5.6 5.8 5.8 1.1.1 1.4.1 4.1.1s3 0 4.1-.1c3.6-.2 5.6-2.2 5.8-5.8.1-1.1.1-1.4.1-4.1s0-3-.1-4.1c-.2-3.6-2.2-5.6-5.8-5.8C15 2 14.7 2 12 2z"/></svg></a>
+        <a href="https://x.com/Folixaudio" aria-label="X" target="_blank" rel="noopener"><svg viewBox="0 0 24 24"><path d="M17.8 3h3.1l-6.8 7.7 8 10.3h-6.3l-4.9-6.4L5.3 21H2.2l7.2-8.3L1.8 3h6.4l4.4 5.9L17.8 3zm-1.1 16.2h1.7L7.4 4.7H5.6l11.1 14.5z"/></svg></a>
+        <a href="https://www.youtube.com/@folixaudio" aria-label="YouTube" target="_blank" rel="noopener"><svg viewBox="0 0 24 24"><path d="M23 7.2a3 3 0 00-2.1-2.1C19 4.6 12 4.6 12 4.6s-7 0-8.9.5A3 3 0 001 7.2 31 31 0 00.5 12 31 31 0 001 16.8a3 3 0 002.1 2.1c1.9.5 8.9.5 8.9.5s7 0 8.9-.5a3 3 0 002.1-2.1 31 31 0 00.5-4.8 31 31 0 00-.5-4.8zM9.7 15.1V8.9l5.8 3.1-5.8 3.1z"/></svg></a></div>
       </div>
       <div><h4>Plugins</h4><ul><li><a href="plugins.html">All plugins</a></li><li><a href="plugin-euphora.html">Folix Euphora</a></li><li><a href="plugin-drop.html">Folix Drop 2</a></li><li><a href="plugin-eq-follower.html">Folix EQ Follower</a></li><li><a href="plugin-delay.html">Folix Delay</a></li><li><a href="plugin-shape-eq.html">Folix Shape EQ</a></li></ul></div>
       <div><h4>Company</h4><ul><li><a href="about.html">About</a></li><li><a href="contact.html">Contact</a></li><li><a href="contact.html#newsletter">Newsletter</a></li></ul></div>

diff --git a/install.html b/install.html
@@ -48,7 +48,10 @@
         <a class="brand" href="index.html" aria-label="Folix Audio home"><img src="assets/img/mark.svg" alt="Folix Audio" width="40" height="40"><span class="brand-word"><b data-brand="wordmark-top">FOLIX</b><span data-brand="wordmark-sub">AUDIO</span></span></a>
         <p>Instruments and effects for producers and sound designers. VST3 &amp; AU plugins.</p>
         <p>Support: <a href="mailto:folixaudio@gmail.com">folixaudio@gmail.com</a></p>
-        
+        <div class="socials"><a href="https://www.tiktok.com/@folixaudio" aria-label="TikTok" target="_blank" rel="noopener"><svg viewBox="0 0 24 24"><path d="M19.59 6.69a4.83 4.83 0 01-3.77-4.25V2h-3.45v13.67a2.89 2.89 0 01-5.2 1.74 2.89 2.89 0 012.31-4.51c.28 0 .56.04.81.13V9.01a6.27 6.27 0 00-.81-.05A6.34 6.34 0 003.16 15.3a6.34 6.34 0 0010.86 4.48 6.34 6.34 0 001.87-4.48V8.77a8.16 8.16 0 004.85 1.56V6.88a4.83 4.83 0 01-1.15-.19z"/></svg></a>
+        <a href="https://www.instagram.com/folixaudio/" aria-label="Instagram" target="_blank" rel="noopener"><svg viewBox="0 0 24 24"><path d="M12 7a5 5 0 100 10 5 5 0 000-10zm0 8.2a3.2 3.2 0 110-6.4 3.2 3.2 0 010 6.4zM17.3 5.5a1.2 1.2 0 100 2.4 1.2 1.2 0 000-2.4zM12 2c-2.7 0-3 0-4.1.1C4.3 2.3 2.3 4.3 2.1 7.9 2 9 2 9.3 2 12s0 3 .1 4.1c.2 3.6 2.2 5.6 5.8 5.8 1.1.1 1.4.1 4.1.1s3 0 4.1-.1c3.6-.2 5.6-2.2 5.8-5.8.1-1.1.1-1.4.1-4.1s0-3-.1-4.1c-.2-3.6-2.2-5.6-5.8-5.8C15 2 14.7 2 12 2z"/></svg></a>
+        <a href="https://x.com/Folixaudio" aria-label="X" target="_blank" rel="noopener"><svg viewBox="0 0 24 24"><path d="M17.8 3h3.1l-6.8 7.7 8 10.3h-6.3l-4.9-6.4L5.3 21H2.2l7.2-8.3L1.8 3h6.4l4.4 5.9L17.8 3zm-1.1 16.2h1.7L7.4 4.7H5.6l11.1 14.5z"/></svg></a>
+        <a href="https://www.youtube.com/@folixaudio" aria-label="YouTube" target="_blank" rel="noopener"><svg viewBox="0 0 24 24"><path d="M23 7.2a3 3 0 00-2.1-2.1C19 4.6 12 4.6 12 4.6s-7 0-8.9.5A3 3 0 001 7.2 31 31 0 00.5 12 31 31 0 001 16.8a3 3 0 002.1 2.1c1.9.5 8.9.5 8.9.5s7 0 8.9-.5a3 3 0 002.1-2.1 31 31 0 00.5-4.8 31 31 0 00-.5-4.8zM9.7 15.1V8.9l5.8 3.1-5.8 3.1z"/></svg></a></div>
       </div>
       <div><h4>Plugins</h4><ul><li><a href="plugins.html">All plugins</a></li><li><a href="plugin-euphora.html">Folix Euphora</a></li><li><a href="plugin-drop.html">Folix Drop 2</a></li><li><a href="plugin-eq-follower.html">Folix EQ Follower</a></li><li><a href="plugin-delay.html">Folix Delay</a></li><li><a href="plugin-shape-eq.html">Folix Shape EQ</a></li></ul></div>
       <div><h4>Company</h4><ul><li><a href="about.html">About</a></li><li><a href="contact.html">Contact</a></li><li><a href="contact.html#newsletter">Newsletter</a></li></ul></div>
